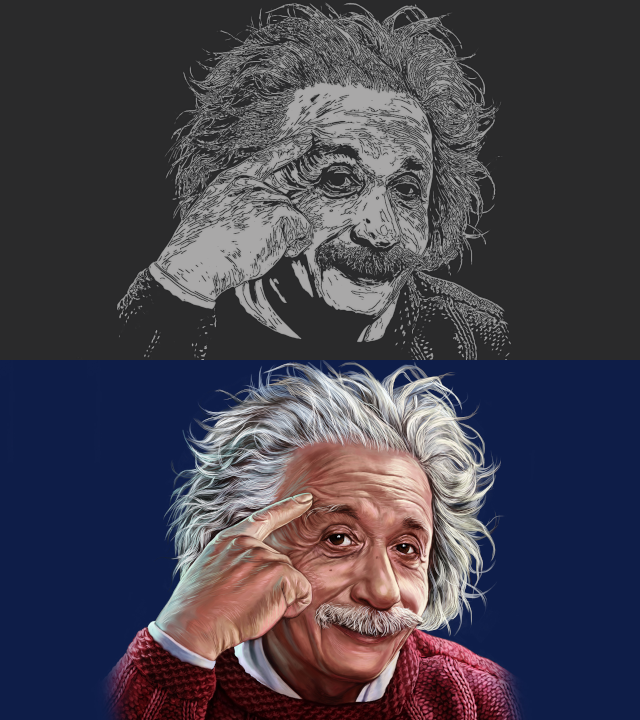
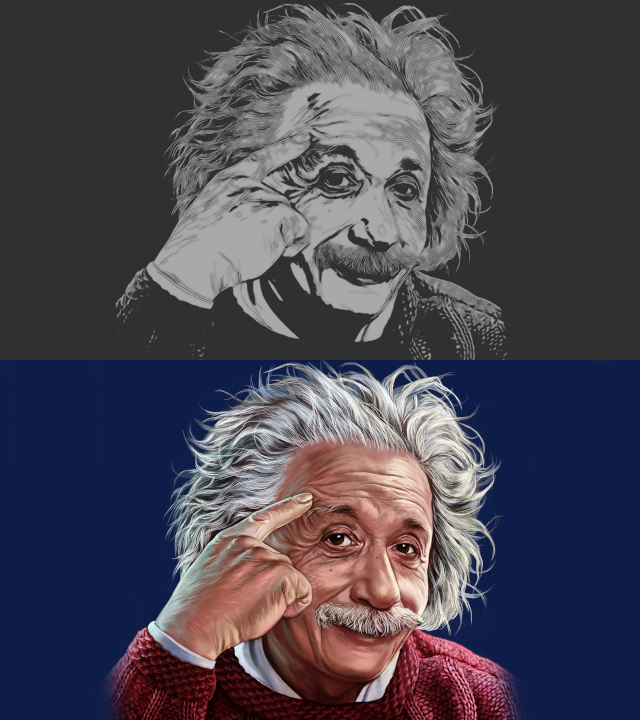
Add controls

Changed region(s): [[0.1875, 0.0, 0.8125, 0.5194], [0.4375, 0.4583, 0.4688, 0.4889], [0.2188, 0.4583, 0.25, 0.4889]]

diff --git a/static/controls.js b/static/controls.js
@@ -86,7 +86,9 @@ function resetSettings() {
         document.getElementById("sharpenId2").value = 0;
     }
     if (document.getElementById("modesId").value == "k") {
-        document.getElementById("rcnnSizeId").value = 150;
+        document.getElementById("rcnnSizeId").value = 20;
+        document.getElementById("rcnnBlurId").value = 1;
+
     }
     if (document.getElementById("modesId").value == "r") {
         document.getElementById("denoise2Id").value = 30;
@@ -111,6 +113,14 @@ function resetSettings() {
         document.getElementById("cannyBlurId").value = 5;
         document.getElementById("lineThicknessId").value = 2;
         document.getElementById("denoise2Id").value = 50;
+    }
+
+     if (document.getElementById("modesId").value == "i") {
+        document.getElementById("contrastId").value = 130;
+        document.getElementById("saturationId").value = 150;
+        document.getElementById("rcnnBlurId").value = 3;
+        document.getElementById("cannyBlurId").value = 5;
+        document.getElementById("lineThicknessId").value = 2;
     }
 }
 
@@ -226,11 +236,11 @@ var myTimer = setInterval(function () {
             // CANNY + ANIMATE BACKGROUND
             if (currentMode == "i") {
                 $("#cannyBlurIdBlock").show()
-                $("#lineThicknessIdBlock").hide()
+                $("#lineThicknessIdBlock").show()
                 $("#sharpenIdBlock").hide()
                 $("#sharpenIdBlock2").hide()
-                $("#denoiseIdBlock").hide()
-                $("#denoise2IdBlock").hide()
+                $("#denoiseIdBlock").show()
+                $("#denoise2IdBlock").show()
                 $("#rcnnSizeIdBlock").hide()
                 $("#rcnnBlurIdBlock").hide()
                 $("#sobelIdBlock").hide()
@@ -277,7 +287,7 @@ var myTimer = setInterval(function () {
                 $("#sharpenIdBlock2").hide()
                 $("#denoiseIdBlock").hide()
                 $("#denoise2IdBlock").hide()
-                $("#rcnnBlurIdBlock").hide()
+                $("#rcnnBlurIdBlock").show()
                 $("#sobelIdBlock").hide()
                 $("#rcnnSizeIdBlock").show()
                 $("#confidenceIdBlock").show()

diff --git a/render_modes.py b/render_modes.py
@@ -288,7 +288,8 @@ def find_yolo_classes(input_frame, yolo_network, output_layers, confidence_value
                 confidences.append(float(confidence))
                 class_ids.append(class_id)
 
-    indexes = cv2.dnn.NMSBoxes(boxes, confidences, 0.5, 0.2)
+
+    indexes = cv2.dnn.NMSBoxes(boxes, confidences, confidence_value, 0.3)
 
     for i in range(len(boxes)):
         if i in indexes:
@@ -842,7 +843,8 @@ def extract_and_replace_background_rcnn(
         confidence_value,
         canny_blur,
         canny_thres1,
-        canny_thres2
+        canny_thres2,
+        line_thickness
 ):
     confidence_value /= 100
     classes_out = []
@@ -885,6 +887,8 @@ def extract_and_replace_background_rcnn(
 
             # if (labels[class_id] == "person"):
             frm = frame_canny[start_y:end_y, start_x:end_x][mask]
+            kernel = np.ones((line_thickness), np.uint8)
+            frm = cv2.dilate(frm, kernel, iterations=1)
             frm[np.all(frm == (255, 0, 255), axis=-1)] = (255, 255, 0)
             input_frame[start_y:end_y, start_x:end_x][mask] = frm
             # if (labels[class_id] == "car"):
@@ -1077,7 +1081,7 @@ def color_canny_on_color_background_rcnn(input_frame, boxes, masks, labels, conf
     return frame_out
 
 
-def colorizer_people_rcnn(input_frame, boxes, masks, confidence_value, rcnn_size_value):
+def colorizer_people_rcnn(input_frame, boxes, masks, confidence_value, rcnn_size_value, rcnn_blur_value):
     confidence_value /= 100
     classes_out = []
     need_gray_to_bgr = True
@@ -1090,7 +1094,7 @@ def colorizer_people_rcnn(input_frame, boxes, masks, confidence_value, rcnn_size
     # frame_copy = cv2.cvtColor(hsvImg, cv2.COLOR_HSV2BGR)
 
     input_frame = cv2.cvtColor(input_frame, cv2.COLOR_BGR2GRAY)
-    # input_frame = cv2.GaussianBlur(input_frame, (19, 19), 19)
+    input_frame = cv2.GaussianBlur(input_frame, (rcnn_blur_value, rcnn_blur_value), rcnn_blur_value)
     frame_canny = auto_canny(input_frame)
     frame_canny = cv2.cvtColor(frame_canny, cv2.COLOR_GRAY2RGB)
     frame_canny *= np.array((1, 1, 0), np.uint8)

diff --git a/mode_selector.py b/mode_selector.py
@@ -74,7 +74,8 @@ def render_with_mode(modes_ajax, sliders_ajax, main_frame, frame_background,
                 boxes,
                 masks,
                 int(sliders_ajax["confidenceSliderValue"]),
-                int(sliders_ajax["rcnnSizeSliderValue"])
+                int(sliders_ajax["rcnnSizeSliderValue"]),
+                int(sliders_ajax["rcnnBlurSliderValue"]),
             )
 
         # Convert background to grayscale with blur and add color objects
@@ -120,8 +121,14 @@ def render_with_mode(modes_ajax, sliders_ajax, main_frame, frame_background,
                 int(sliders_ajax["confidenceSliderValue"]),
                 int(sliders_ajax["cannyBlurSliderValue"]),
                 int(sliders_ajax["cannyThresSliderValue"]),
-                int(sliders_ajax["cannyThresSliderValue2"])
+                int(sliders_ajax["cannyThresSliderValue2"]),
+                int(sliders_ajax["lineThicknessSliderValue"])
             )
+
+            main_frame = denoise(
+                main_frame,
+                int(sliders_ajax["denoiseSliderValue"]),
+                int(sliders_ajax["denoiseSliderValue2"]))
 
         # Draw MASK R-CNN objects with canny edge detection on canny blurred background
         if modes_ajax["color_canny"]:

diff --git a/processing.py b/processing.py
@@ -216,7 +216,7 @@ def process_frame():
     caffe_network.setPreferableTarget(cv2.dnn.DNN_TARGET_CUDA)
     superres_network = initialize_superres_network("LAPSRN")
     esrgan_network, device = initialize_esrgan_network("FALCOON", True)
-    rcnn_network = initialize_rcnn_network(False)
+    rcnn_network = initialize_rcnn_network(True)
     dain_network = initialize_dain_network(True)
     yolo_network, layers_names, output_layers, colors_yolo = initialize_yolo_network(
         classes, True

diff --git a/README.md b/README.md
@@ -61,6 +61,7 @@ Note: rendering process stops after a few seconds if user closed browser tab.
 Simultaneous work on different devices / browser tabs provided by reserving unique user port generated from main page
 
 ## Rendering modes
+Using neural networks:
 - (GPU/CPU) YOLO: Extract objects in frames (download zip with images), draw detected boxes and labels
 - (GPU/CPU) YOLO: Blur objects with ASCII chars
 - (GPU/CPU) Mask R-CNN: Convert background to gray
@@ -71,7 +72,10 @@ Simultaneous work on different devices / browser tabs provided by reserving uniq
 - (CPU) EDSR / LapSRN / FSRCNN: x4 resolution upscale
 - (GPU) ESRGAN / RRDB_PSNR: x4 resolution upscale (models included: FALCOON, MANGA109, ESRGAN/RRDB_PSNR interpolation 0.2, 0.4, 0.6, 0.8)
 - (GPU) Depth-Aware Video Frame Interpolation: create smooth video by creating new frames (boost x2, x4, x8 fps)
-- (CPU) OpenCV denoiser with two sharpening methods
+
+Without neural networks:
+
+- (CPU) Denoiser with two sharpening methods
 - (CPU) ASCII painter
 - (CPU) Cartoon style
 - (CPU) Pencil drawer
